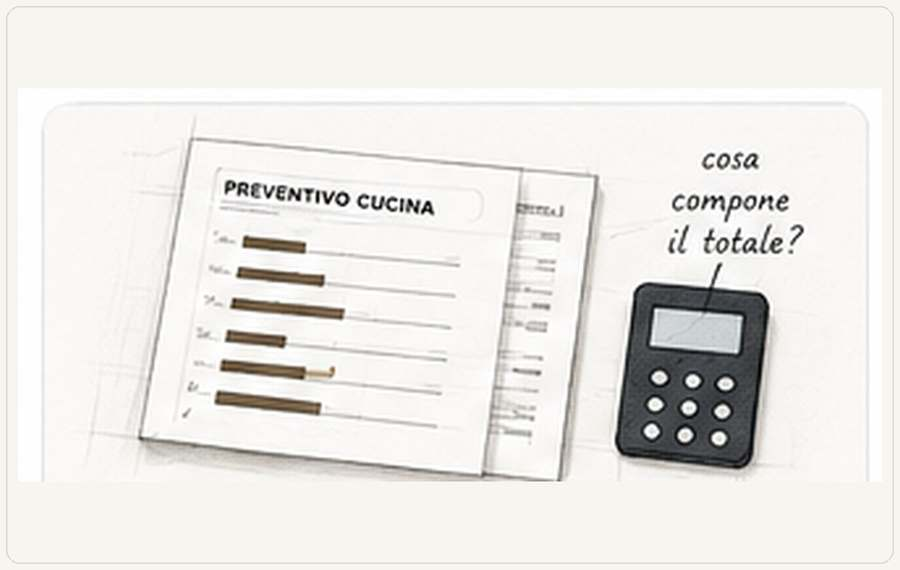
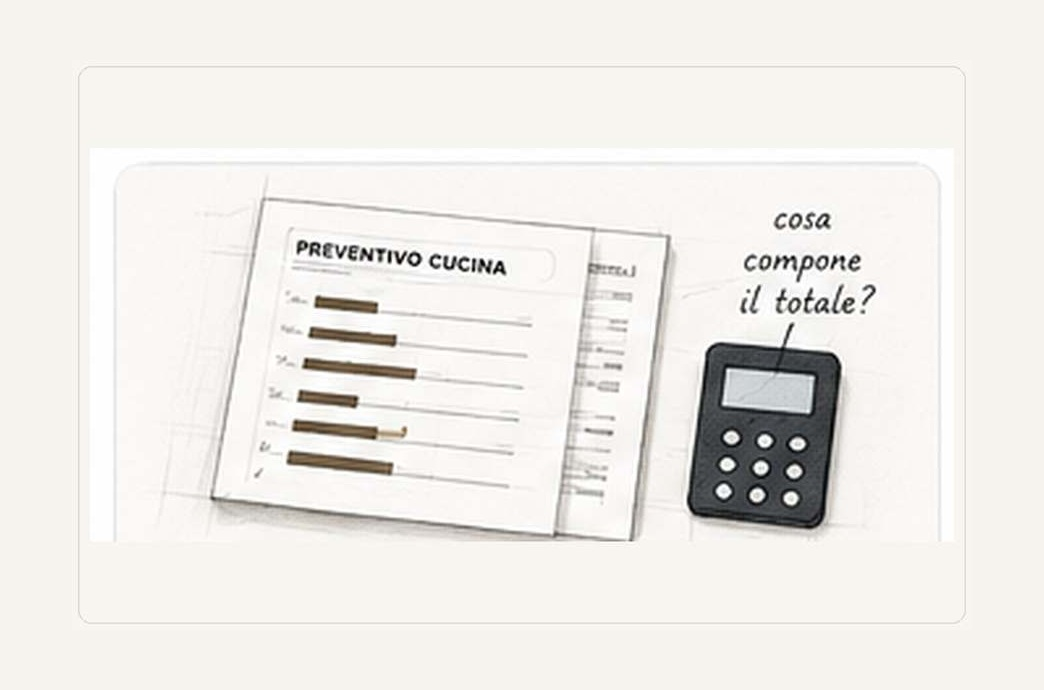
fix: mostra interamente tutte le immagini del sito senza ritagli

Changed region(s): [[0.1244, 0.2386, 0.9022, 0.8649]]

diff --git a/sistema90g-final-images.css b/sistema90g-final-images.css
@@ -1,28 +1,38 @@
-@import url('sistema90g-integrated-images.css?v=20260704-integrated1');
-
 main .premium-image,
-main .case-card-image {
-  overflow: hidden;
-  border-radius: 18px;
-  background: #f7f5ef;
+main .case-card-image,
+main figure:has(> img) {
+  overflow: visible !important;
+  border: 0 !important;
+  border-radius: 0 !important;
+  background: transparent !important;
+  box-shadow: none !important;
 }
 
 main .premium-image img,
-main img.case-card-image {
+main img.case-card-image,
+main figure > img {
   display: block;
-  width: 100%;
-  height: auto;
-  max-width: 100%;
+  width: 100% !important;
+  height: auto !important;
+  max-width: 100% !important;
+  max-height: none !important;
   object-fit: contain !important;
   object-position: center !important;
+  aspect-ratio: auto !important;
+  border: 0 !important;
+  border-radius: 0 !important;
+  background: transparent !important;
+  box-shadow: none !important;
+  clip-path: none !important;
+  -webkit-mask-image: none !important;
+  mask-image: none !important;
+  mix-blend-mode: multiply;
 }
 
-main .premium-hero .premium-image img {
-  max-height: 620px;
-}
-
-main img.case-card-image {
-  aspect-ratio: 45 / 28;
+main .premium-hero .premium-image {
+  padding: 0 !important;
+  overflow: visible !important;
+  background: transparent !important;
 }
 
 @media (max-width: 820px) {
@@ -36,11 +46,10 @@ main img.case-card-image {
     width: 100%;
   }
 
-  main .premium-image img {
-    max-height: none;
-  }
-
-  main img.case-card-image {
-    aspect-ratio: auto;
+  main .premium-image img,
+  main img.case-card-image,
+  main figure > img {
+    width: 100% !important;
+    height: auto !important;
   }
 }

diff --git a/IMAGE-SAFE-MARGINS-AUDIT.md b/IMAGE-SAFE-MARGINS-AUDIT.md
@@ -1,0 +1,27 @@
+# Audit margini immagini
+
+Immagini aggiornate: **21**
+
+| File | Prima | Dopo | Fondo campionato |
+|---|---:|---:|---|
+| `case-01-dishwasher.jpg` | 900×570 | 1044×690 | rgb(246, 243, 238) |
+| `case-02-entry-living.jpg` | 900×570 | 1044×690 | rgb(246, 243, 238) |
+| `case-03-compact-kitchen.jpg` | 900×570 | 1044×690 | rgb(246, 243, 238) |
+| `case-04-quote.jpg` | 900×570 | 1044×690 | rgb(246, 243, 238) |
+| `case-05-island-passages.jpg` | 900×570 | 1044×690 | rgb(246, 243, 238) |
+| `case-06-second-bath.jpg` | 900×570 | 1044×690 | rgb(246, 243, 238) |
+| `case-07-tv-sofa-path.jpg` | 900×570 | 1044×690 | rgb(246, 243, 238) |
+| `case-08-sink-window.jpg` | 900×570 | 1044×690 | rgb(246, 243, 238) |
+| `case-09-stair-plan.jpg` | 900×570 | 1044×690 | rgb(245, 242, 237) |
+| `case-10-central-path.jpg` | 900×570 | 1044×690 | rgb(246, 243, 238) |
+| `case-11-third-bedroom.jpg` | 900×570 | 1044×690 | rgb(246, 243, 238) |
+| `case-12-deep-corner.jpg` | 900×570 | 1044×690 | rgb(246, 243, 238) |
+| `case-13-bath-laundry.jpg` | 900×570 | 1044×690 | rgb(246, 243, 238) |
+| `case-14-wardrobe-room.jpg` | 900×570 | 1044×690 | rgb(246, 243, 238) |
+| `case-15-sofa-bed.jpg` | 900×570 | 1044×690 | rgb(246, 243, 238) |
+| `hero-about-reference.jpg` | 1200×750 | 1392×870 | rgb(246, 243, 238) |
+| `hero-cases-reference.jpg` | 1200×750 | 1392×870 | rgb(246, 242, 238) |
+| `hero-home-reference.jpg` | 1200×750 | 1392×870 | rgb(246, 243, 238) |
+| `hero-kitchen-reference.jpg` | 1200×750 | 1392×870 | rgb(246, 243, 238) |
+| `hero-plan-reference.jpg` | 1200×750 | 1392×870 | rgb(246, 242, 238) |
+| `hero-quote-reference.jpg` | 1200×750 | 1392×870 | rgb(246, 243, 238) |
